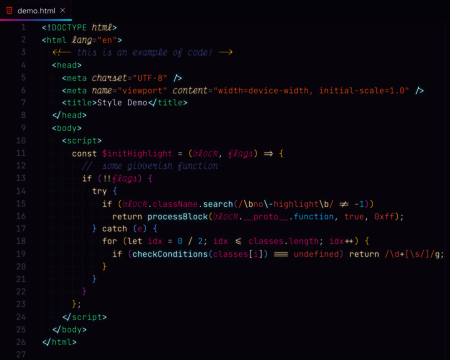
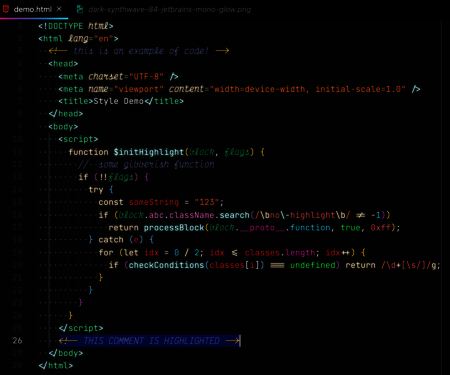
feat: Add Dark Synthwave to style post

diff --git a/_posts/2021-01-24-vscode-fonts-and-themes.md b/_posts/2021-01-24-vscode-fonts-and-themes.md
@@ -17,11 +17,14 @@ I'm going to give some options for styling your vscode. We use VS Code daily,
 all day long. Why not set the icons, fonts, and theme to a style you like best?
 Your eyes will thank you!
 
+I will edit this post as I find other themes I like.
+{:.note}
+
 The cover image actually uses a combination of two fonts, [JetBrains Mono](https://www.jetbrains.com/lp/mono/)
 & [Victor Mono](https://rubjo.github.io/victor-mono/)! It is done using some
 trickery [read about it here](/blog/2021-01-24-vscode-dual-fonts/). The theme is
-[SynthWave '84](https://marketplace.visualstudio.com/items?itemName=RobbOwen.synthwave-vscode)
-with the glow enabled.
+a theme I created [Dark SynthWave '84](https://marketplace.visualstudio.com/items?itemName=aaronYoung.dark-synthwave-vscode)
+with the glow enabled, not the default option of it off.
 {:.note}
 
 Everything in this post is geared towards dark mode as that is my preference.
@@ -161,9 +164,40 @@ To change your theme:
 
 ### VS Code Themes I've Used in the Past
 
-#### [Lukin Theme](https://marketplace.visualstudio.com/items?itemName=lukinco.lukin-vscode-theme)
+#### [Dark Synthwave '84](https://marketplace.visualstudio.com/items?itemName=aaronYoung.dark-synthwave-vscode) with Glow Disabled
 
-This my preferred theme
+This is a theme that your truly created. This is also my preferred theme,
+naturally
+
+<div class="juxtapose">
+  <img
+    src="/assets/img/posts/2021-01-24-vscode-fonts-and-themes/dark-synthwave-84-jetbrains-mono-no-glow.png"
+    data-label="JetBrains Mono"
+  />
+  <img
+    src="/assets/img/posts/2021-01-24-vscode-fonts-and-themes/dark-synthwave-84-fira-code-no-glow.png"
+    data-label="Fira Code"
+  />
+</div>
+
+#### [Dark Synthwave '84](https://marketplace.visualstudio.com/items?itemName=aaronYoung.dark-synthwave-vscode) with Glow Enabled
+
+The glow effect requires additional configurations see the description of the
+theme.
+{:.note}
+
+<div class="juxtapose">
+  <img
+    src="/assets/img/posts/2021-01-24-vscode-fonts-and-themes/dark-synthwave-84-jetbrains-mono-glow.png"
+    data-label="JetBrains Mono"
+  />
+  <img
+    src="/assets/img/posts/2021-01-24-vscode-fonts-and-themes/dark-synthwave-84-fira-code-glow.png"
+    data-label="Fira Code"
+  />
+</div>
+
+#### [Lukin Theme](https://marketplace.visualstudio.com/items?itemName=lukinco.lukin-vscode-theme)
 
 <div class="juxtapose">
   <img
@@ -176,12 +210,26 @@ This my preferred theme
   />
 </div>
 
+#### [SynthWave '84](https://marketplace.visualstudio.com/items?itemName=RobbOwen.synthwave-vscode) with Glow Disabled
+
+<div class="juxtapose">
+  <img
+    src="/assets/img/posts/2021-01-24-vscode-fonts-and-themes/synthwave-84-jetbrains-mono.png"
+    data-label="JetBrains Mono"
+  />
+  <img
+    src="/assets/img/posts/2021-01-24-vscode-fonts-and-themes/synthwave-84-fira-code.png"
+    data-label="Fira Code"
+  />
+</div>
+
 #### [SynthWave '84](https://marketplace.visualstudio.com/items?itemName=RobbOwen.synthwave-vscode) with Glow Enabled
 
 My screenshots from here on in for sharing code will use JetBrains Mono with the
 glow enabled.
 
-The glow effect requires additional configurations
+The glow effect requires additional configurations see the description of the
+theme.
 {:.note}
 
 <div class="juxtapose">
@@ -191,19 +239,6 @@ The glow effect requires additional configurations
   />
   <img
     src="/assets/img/posts/2021-01-24-vscode-fonts-and-themes/synthwave-84-glow-fira-code.png"
-    data-label="Fira Code"
-  />
-</div>
-
-#### [SynthWave '84](https://marketplace.visualstudio.com/items?itemName=RobbOwen.synthwave-vscode) without Glow Enabled
-
-<div class="juxtapose">
-  <img
-    src="/assets/img/posts/2021-01-24-vscode-fonts-and-themes/synthwave-84-jetbrains-mono.png"
-    data-label="JetBrains Mono"
-  />
-  <img
-    src="/assets/img/posts/2021-01-24-vscode-fonts-and-themes/synthwave-84-fira-code.png"
     data-label="Fira Code"
   />
 </div>
